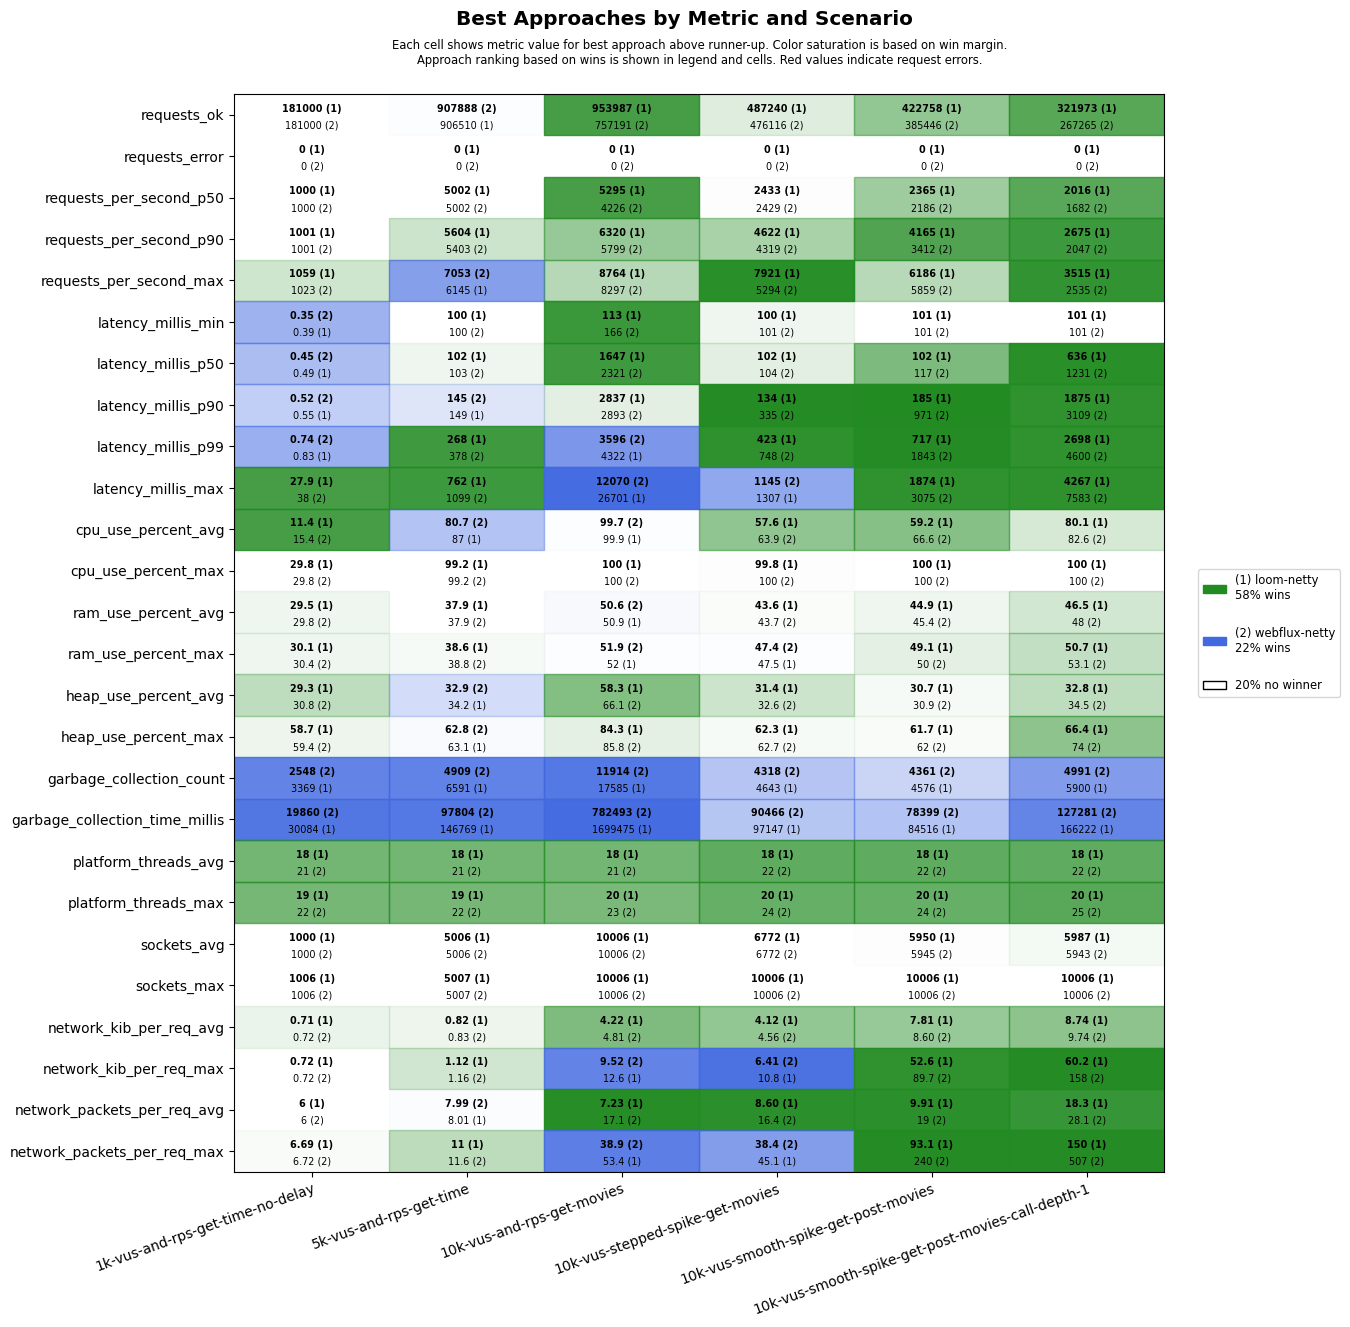
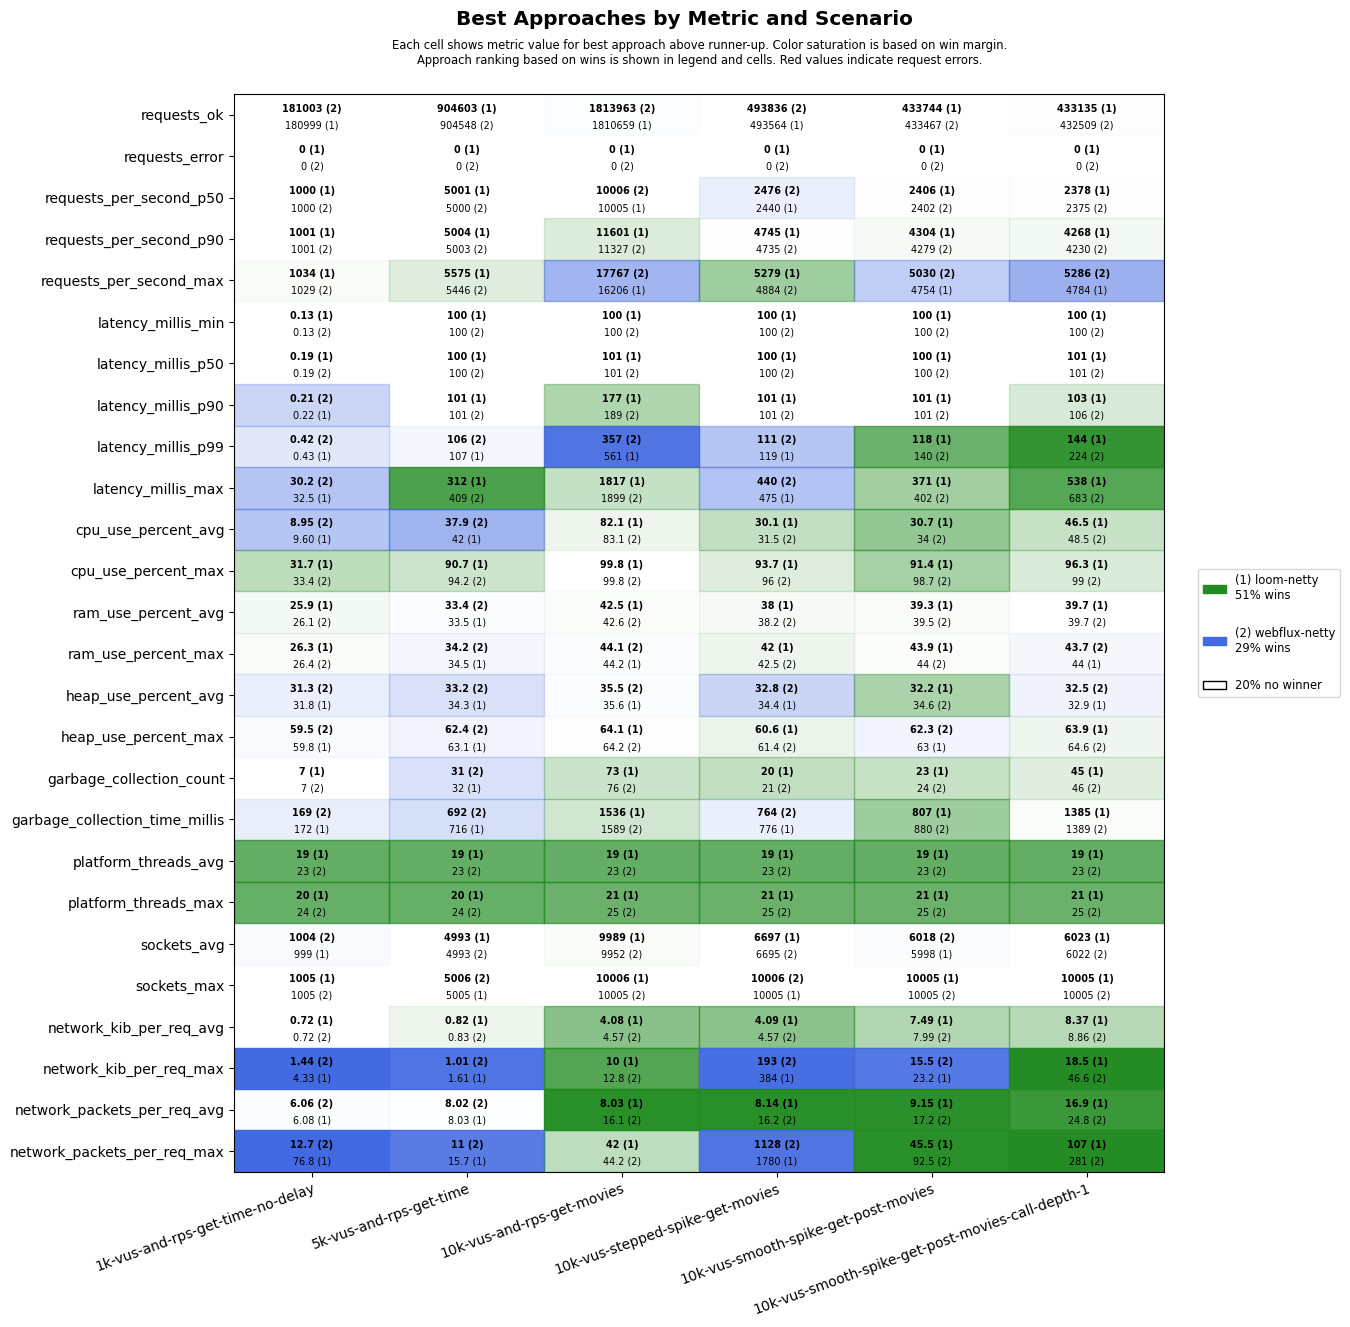
Apply automatic changes

diff --git a/results/ci/scenarios-ci/ubuntu-24.04/java-25/results.md b/results/ci/scenarios-ci/ubuntu-24.04/java-25/results.md
@@ -4,23 +4,23 @@
 
 | **Name**                | **Value** |
 |-------------------------|-----------|
-| **Start (UTC)** | 2026-04-02 03:09:01 |
-| **End (UTC)** | 2026-04-02 04:32:44 |
-| **Duration (hh:mm:ss)** | 01:23:43 |
+| **Start (UTC)** | 2026-08-02 03:08:07 |
+| **End (UTC)** | 2026-08-02 04:46:56 |
+| **Duration (hh:mm:ss)** | 01:38:49 |
 
 ## System Specs
 
 | **Name**                | **Value** |
 |-------------------------|-----------|
-| **Java** | OpenJDK 64-Bit Server VM Corretto-25.0.2.10.1 (build 25.0.2+10-LTS, mixed mode, sharing) |
-| **Spring Boot** | 3.5.13 |
+| **Java** | OpenJDK 64-Bit Server VM Corretto-25.0.4.7.1 (build 25.0.4+7-LTS, mixed mode, sharing) |
+| **Spring Boot** | 4.1.0 |
 | **Python** | 3.12.3 |
 | **OS** | Ubuntu 24.04.4 LTS |
-| **Kernel** | 6.17.0-1008-azure |
-| **CPU** | AMD EPYC 7763 64-Core Processor |
+| **Kernel** | 6.17.0-1020-azure |
+| **CPU** | AMD EPYC 9V74 80-Core Processor |
 | **CPU Cores** | 4 |
-| **RAM** | 15Gi total, 11Gi available |
-| **Disk** | 158G total, 100G available |
+| **RAM** | 15Gi total, 12Gi available |
+| **Disk** | 158G total, 97G available |
 
 ## Scenarios
 
